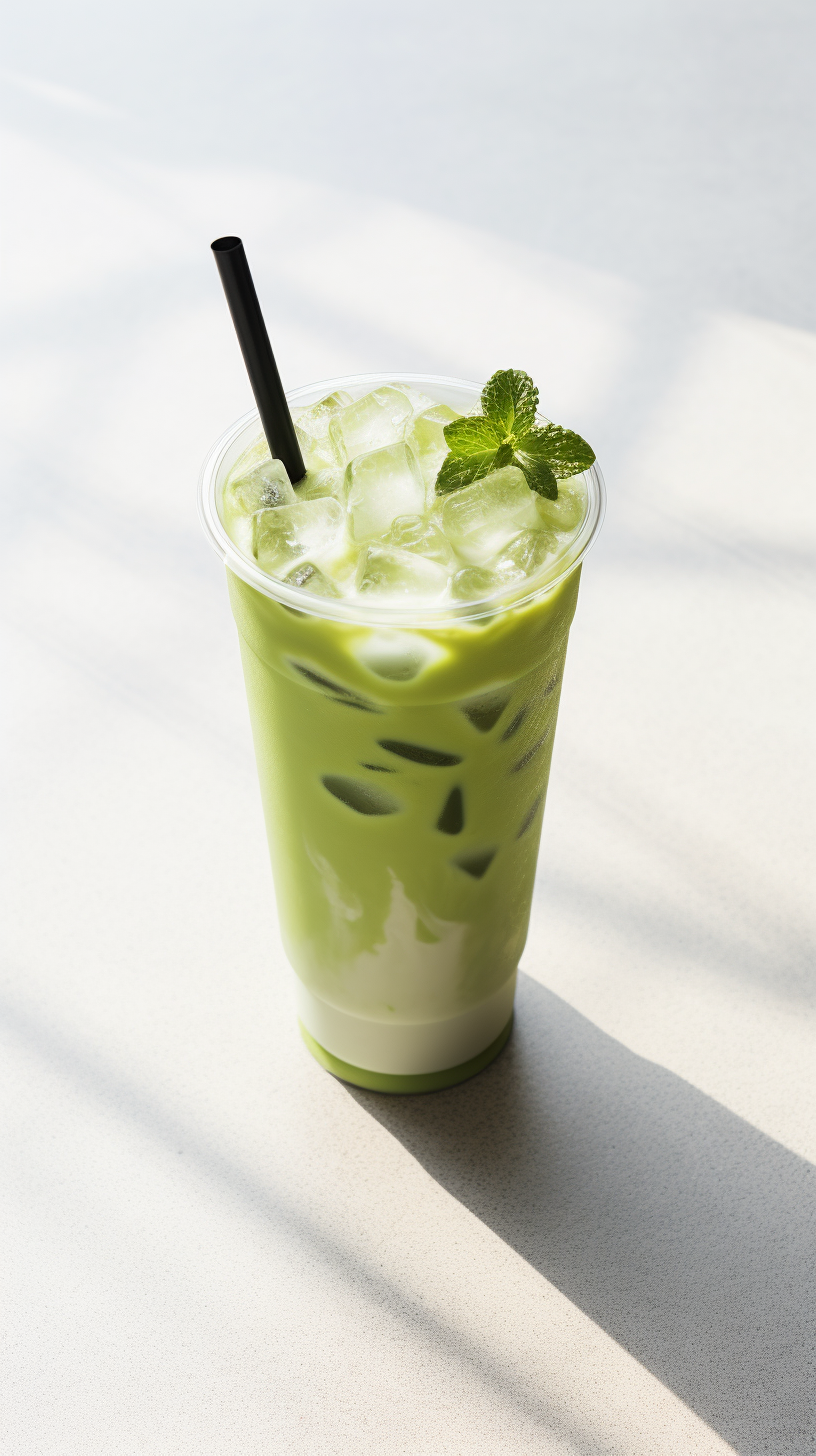
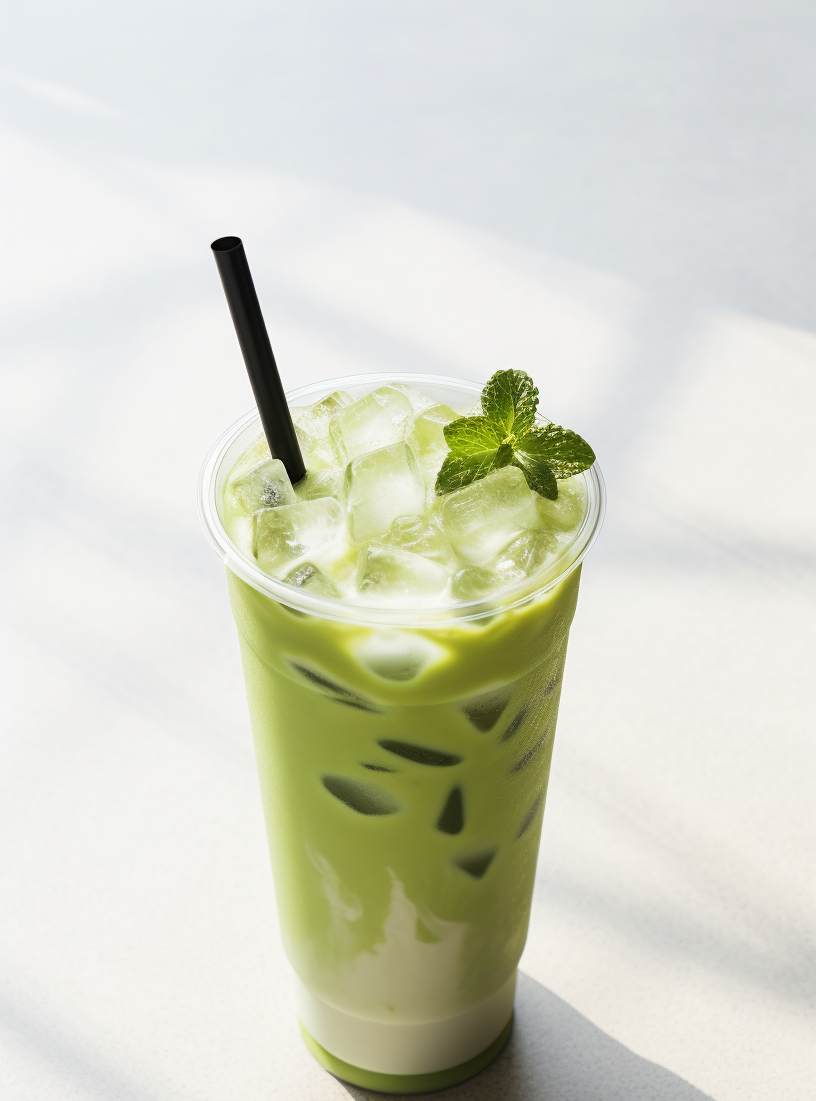
update grids

diff --git a/style.css b/style.css
@@ -1,33 +1,26 @@
-/* ==========================================================================
-   1. CSS VARIABLES & COLOR THEME (Light Violet Accent Theme)
-   ========================================================================== */
+/* Color Palette & Variables */
 :root {
-  --primary: #8b5cf6;         /* Violet primary */
-  --primary-hover: #7c3aed;   /* Darker violet */
-  --primary-light: #f5f3ff;   /* Soft lavender background */
-  --accent: #d8b4fe;          /* Light purple accent */
+  --primary: #8b5cf6;
+  --primary-hover: #7c3aed;
+  --primary-light: #f5f3ff;
+  --accent: #d8b4fe;
   
-  --bg-main: #f8fafc;          /* Page background */
-  --bg-card: #ffffff;          /* Card background */
+  --bg-main: #f8fafc;
+  --bg-card: #ffffff;
   
-  --text-dark: #1e293b;        /* Primary text color */
-  --text-muted: #64748b;       /* Subtitle & muted text */
-  --text-light: #94a3b8;       /* Subtle text */
+  --text-dark: #1e293b;
+  --text-muted: #64748b;
+  --text-light: #94a3b8;
   
-  --border-color: #e2e8f0;     /* Border lines */
-  --shadow-sm: 0 1px 3px rgba(0,0,0,0.05);
-  --shadow-md: 0 4px 6px -1px rgba(0,0,0,0.1), 0 2px 4px -1px rgba(0,0,0,0.06);
+  --border: #e2e8f0;
+  --shadow-sm: 0 1px 3px rgba(0, 0, 0, 0.05);
   --shadow-lg: 0 10px 15px -3px rgba(139, 92, 246, 0.15);
-
-  --radius-sm: 6px;
-  --radius-md: 12px;
-  --radius-lg: 20px;
 }
 
-/* ==========================================================================
-   2. GLOBAL RESET & BASE STYLES
-   ========================================================================== */
-*, *::before, *::after {
+/* Reset & Base Styles */
+*,
+*::before,
+*::after {
   box-sizing: border-box;
   margin: 0;
   padding: 0;
@@ -35,25 +28,22 @@
 
 html {
   scroll-behavior: smooth;
-  font-size: 16px;
 }
 
 body {
-  font-family: system-ui, -apple-system, BlinkMacSystemFont, 'Segoe UI', Roboto, Helvetica, Arial, sans-serif;
+  font-family: arial, sans-serif;
   background-color: var(--bg-main);
   color: var(--text-dark);
   line-height: 1.6;
 }
 
-/* ==========================================================================
-   3. NAVIGATION BAR (Sticky)
-   ========================================================================== */
+/* Navbar */
 .navbar {
   position: sticky;
   top: 0;
   background-color: rgba(255, 255, 255, 0.95);
   backdrop-filter: blur(8px);
-  border-bottom: 1px solid var(--border-color);
+  border-bottom: 1px solid var(--border);
   z-index: 1000;
   box-shadow: var(--shadow-sm);
 }
@@ -97,12 +87,10 @@ body {
   color: var(--primary);
 }
 
-/* ==========================================================================
-   4. HERO BANNER
-   ========================================================================== */
+/* Hero Section */
 .hero {
   background-color: var(--primary-light);
-  border-bottom: 1px solid var(--border-color);
+  border-bottom: 1px solid var(--border);
   padding: 4rem 1.5rem;
   text-align: center;
 }
@@ -134,9 +122,7 @@ body {
   font-size: 1.125rem;
 }
 
-/* ==========================================================================
-   5. MENU CONTAINER & SECTIONS
-   ========================================================================== */
+/* Layout & Menu Sections */
 .menu-container {
   max-width: 1200px;
   margin: 0 auto;
@@ -145,7 +131,7 @@ body {
 
 .menu-section {
   margin-bottom: 4rem;
-  scroll-margin-top: 5rem; /* Prevents sticky header from blocking content on click */
+  scroll-margin-top: 5rem;
 }
 
 .section-header {
@@ -164,24 +150,18 @@ body {
   font-size: 0.95rem;
 }
 
-/* ==========================================================================
-   6. CSS GRID ITEM CARDS
-   ========================================================================== */
+/* Card Grid */
 .grid-container {
-  display: grid;
-  grid-template-columns: repeat(auto-fill, minmax(320px, 1fr));
-  gap: 2rem;
+  display: flex;
+  flex-direction: row;        /* Places cards side-by-side in a row */
+  flex-wrap: wrap;            /* Allows cards to wrap to the next line on smaller screens */
+  gap: 2rem;                  /* Spacing between cards */
 }
 
+/* Give cards a set width or flexible basis so they line up neatly */
 .menu-card {
-  background-color: var(--bg-card);
-  border-radius: var(--radius-md);
-  border: 1px solid var(--border-color);
-  overflow: hidden;
-  box-shadow: var(--shadow-sm);
-  transition: transform 0.3s ease, box-shadow 0.3s ease;
-  display: flex;
-  flex-direction: column;
+  flex: 1 1 300px;            /* Shrinks/grows, base width of 300px */
+  max-width: 380px;           /* Prevents a single card from stretching too wide */
 }
 
 .menu-card:hover {
@@ -190,7 +170,7 @@ body {
   border-color: var(--accent);
 }
 
-/* Image Wrapper */
+/* Card Image & Badges */
 .card-image {
   position: relative;
   width: 100%;
@@ -210,13 +190,12 @@ body {
   transform: scale(1.05);
 }
 
-/* Badges */
 .badge {
   position: absolute;
   top: 12px;
   right: 12px;
   background-color: var(--primary);
-  color: #ffffff;
+  color: #fff;
   font-size: 0.75rem;
   font-weight: 600;
   padding: 0.25rem 0.75rem;
@@ -226,10 +205,10 @@ body {
 }
 
 .badge-accent {
-  background-color: #38bdf8; /* Blue accent badge option */
+  background-color: #38bdf8;
 }
 
-/* Card Content Body */
+/* Card Body */
 .card-body {
   padding: 1.5rem;
   display: flex;
@@ -262,7 +241,6 @@ body {
   flex-grow: 1;
 }
 
-/* Tags */
 .tags {
   display: flex;
   gap: 0.5rem;
@@ -275,16 +253,14 @@ body {
   font-size: 0.75rem;
   font-weight: 600;
   padding: 0.2rem 0.6rem;
-  border-radius: var(--radius-sm);
+  border-radius: 6px;
   border: 1px solid rgba(139, 92, 246, 0.2);
 }
 
-/* ==========================================================================
-   7. FOOTER
-   ========================================================================== */
+/* Footer */
 .footer {
-  background-color: #ffffff;
-  border-top: 1px solid var(--border-color);
+  background-color: #fff;
+  border-top: 1px solid var(--border);
   padding: 2.5rem 1.5rem;
   text-align: center;
   color: var(--text-muted);
@@ -297,9 +273,7 @@ body {
   color: var(--text-light);
 }
 
-/* ==========================================================================
-   8. RESPONSIVE DESIGN (Media Queries)
-   ========================================================================== */
+/* Mobile Responsive */
 @media (max-width: 640px) {
   .nav-container {
     flex-direction: column;

diff --git a/index.html b/index.html
@@ -72,7 +72,7 @@
           <div class="card-body">
             <div class="item-title">
               <h3>Lavender Vanilla Latte</h3>
-              <span class="price">PHP 120.00</span>
+              <span class="price">PHP 99.00</span>
             </div>
             <p class="description">Espresso infused with house-made organic lavender syrup and steamed milk.</p>
             <div class="tags">
@@ -89,7 +89,7 @@
           <div class="card-body">
             <div class="item-title">
               <h3>Classic Cappuccino</h3>
-              <span class="price">PHP 119.00</span>
+              <span class="price">PHP 85.00</span>
             </div>
             <p class="description">Equal parts espresso, steamed milk, and velvety milk foam topped with cocoa powder.</p>
             <div class="tags">
@@ -161,7 +161,7 @@
           </div>
           <div class="card-body">
             <div class="item-title">
-              <h3>Topsi Log</h3>
+              <h3>Topsilog</h3>
               <span class="price">PHP 85.00</span>
             </div>
             <p class="description">Tender beef tapa served with garlic fried rice, a sunny-side-up egg, and a side of atchara.</p>
@@ -174,11 +174,11 @@
         <!-- Item 2 -->
         <article class="menu-card">
           <div class="card-image">
-            <img src="images/longsilog.jpg" alt="Longsi Log">
+            <img src="images/longsilog.jpg" alt="LongsiLog">
           </div>
           <div class="card-body">
             <div class="item-title">
-              <h3>Longsi Log</h3>
+              <h3>Longsilog</h3>
               <span class="price">PHP 85.00</span>
             </div>
             <p class="description">Sweet Filipino pork longganisa served with garlic rice, a fried egg, and a side of vinegar dipping sauce.</p>
@@ -191,31 +191,50 @@
     </section>
 
     <!-- Beverages Section -->
-    <section id="beverages" class="menu-section">
-      <div class="section-header">
-        <h2>Cold Beverages</h2>
-        <p>Refreshing drinks served over ice</p>
-      </div>
+<section id="beverages" class="menu-section">
+  <div class="section-header">
+    <h2>Cold Beverages</h2>
+    <p>Refreshing drinks served over ice</p>
+  </div>
 
-      <div class="grid-container">
-        <!-- Item 1 -->
-        <article class="menu-card">
-          <div class="card-image">
-            <img src="images/matcha.png" alt="Iced Matcha Latte">
-          </div>
-          <div class="card-body">
-            <div class="item-title">
-              <h3>Iced Matcha Latte</h3>
-              <span class="price">PHP 85.00</span>
-            </div>
-            <p class="description">Ceremonial grade Japanese matcha whisked with milk and poured over ice.</p>
-            <div class="tags">
-              <span class="tag">Antioxidant</span>
-            </div>
-          </div>
-        </article>
+  <!-- SINGLE GRID CONTAINER FOR ALL CARDS IN THIS SECTION -->
+  <div class="grid-container">
+
+    <!-- Item 1 -->
+    <article class="menu-card">
+      <div class="card-image">
+        <img src="images/matcha.png" alt="Iced Matcha Latte">
       </div>
-    </section>
+      <div class="card-body">
+        <div class="item-title">
+          <h3>Iced Matcha Latte</h3>
+          <span class="price">PHP 85.00</span>
+        </div>
+        <p class="description">Ceremonial grade Japanese matcha whisked with milk and poured over ice.</p>
+        <div class="tags">
+          <span class="tag">Antioxidant</span>
+        </div>
+      </div>
+    </article>
+
+    <!-- Item 2 -->
+    <article class="menu-card">
+      <div class="card-image">
+        <img src="images/icedLatte.jpg" alt="Iced Latte">
+      </div>
+      <div class="card-body">
+        <div class="item-title">
+          <h3>Iced Latte</h3>
+          <span class="price">PHP 85.00</span>
+        </div>
+        <p class="description">A refreshing blend of espresso and milk served over ice.</p>
+        <div class="tags">
+          <span class="tag">Antioxidant</span>
+        </div>
+      </div>
+    </article>
+  </div>
+</section>
 
   </main>
 
